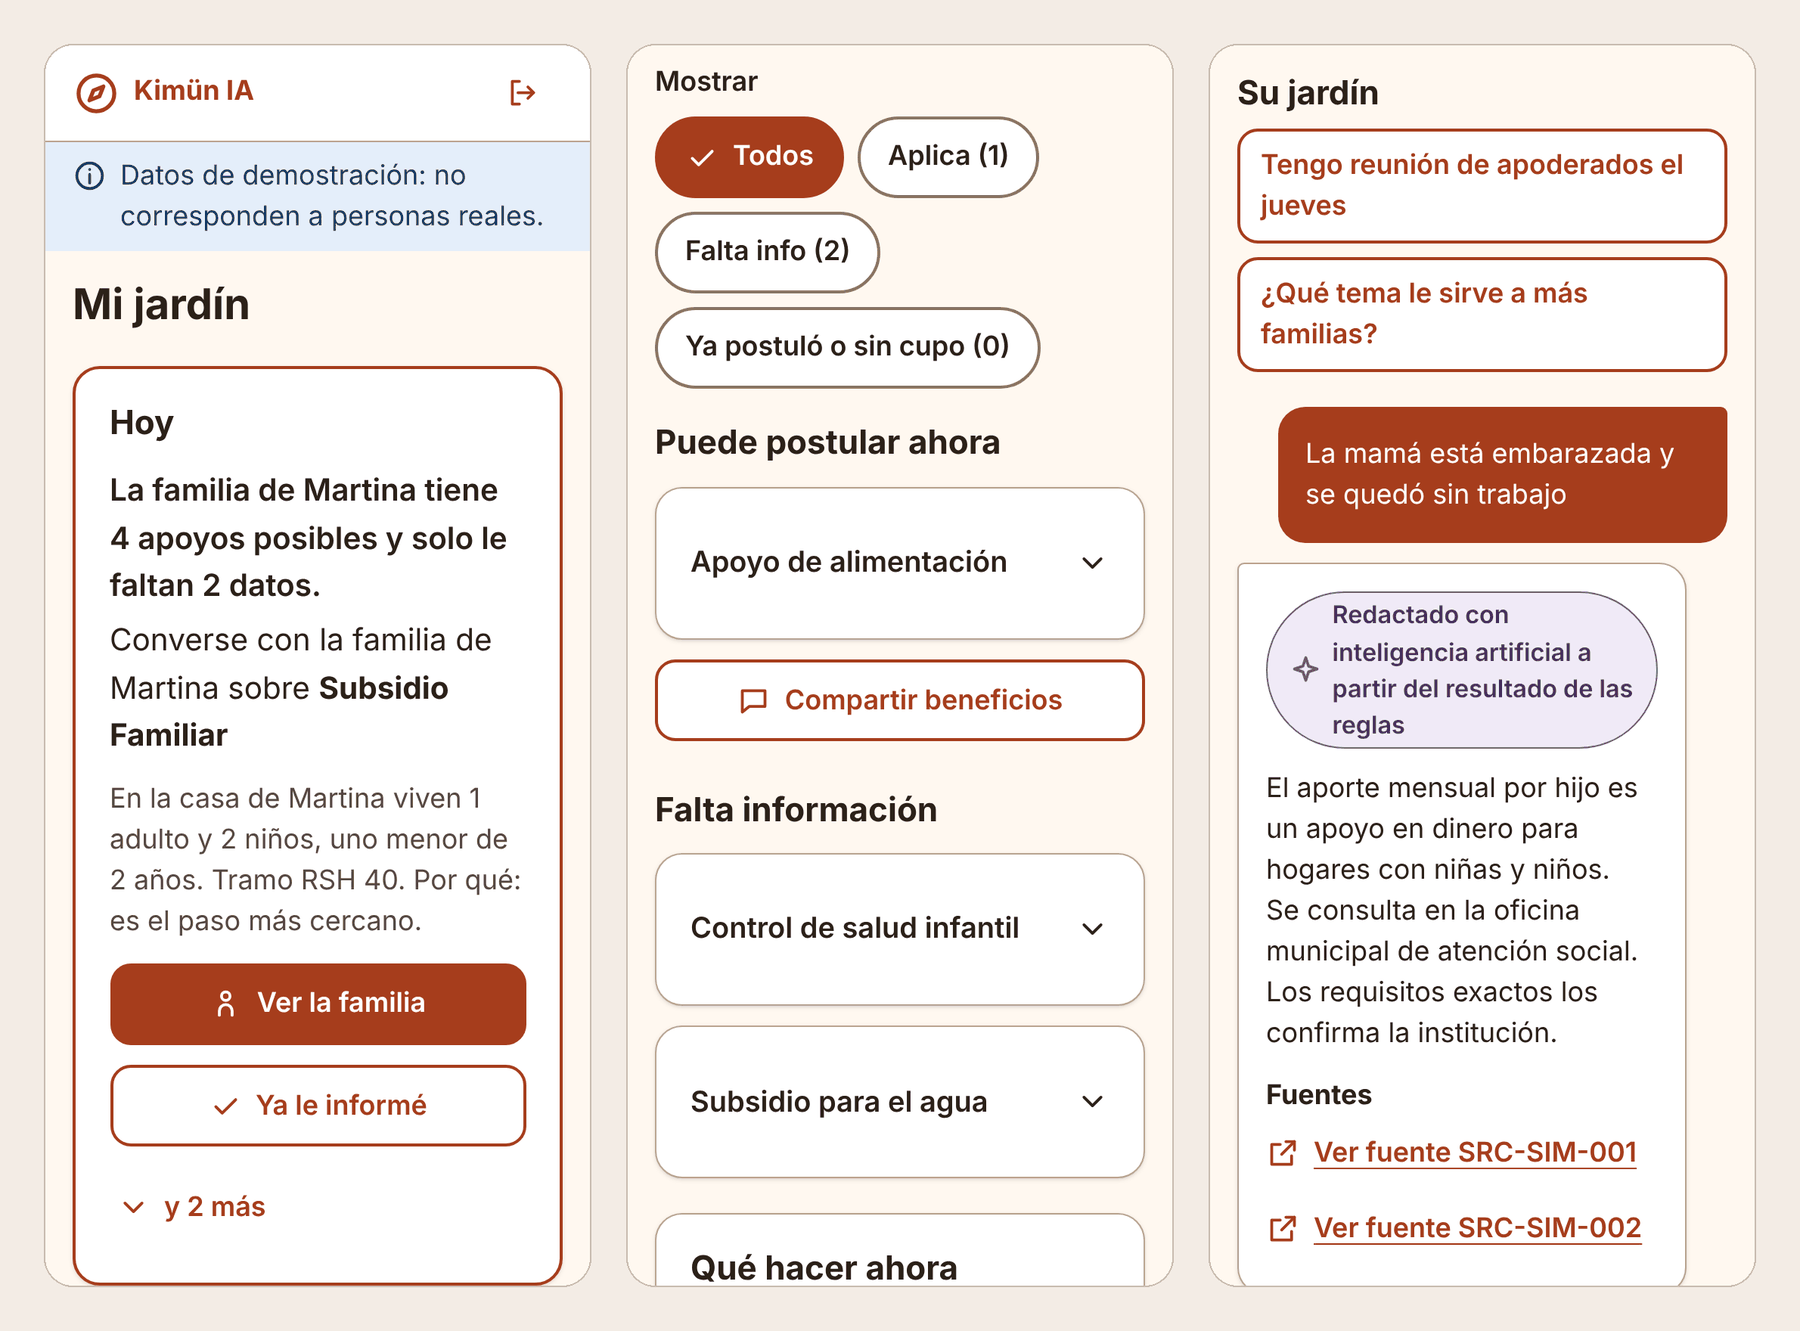
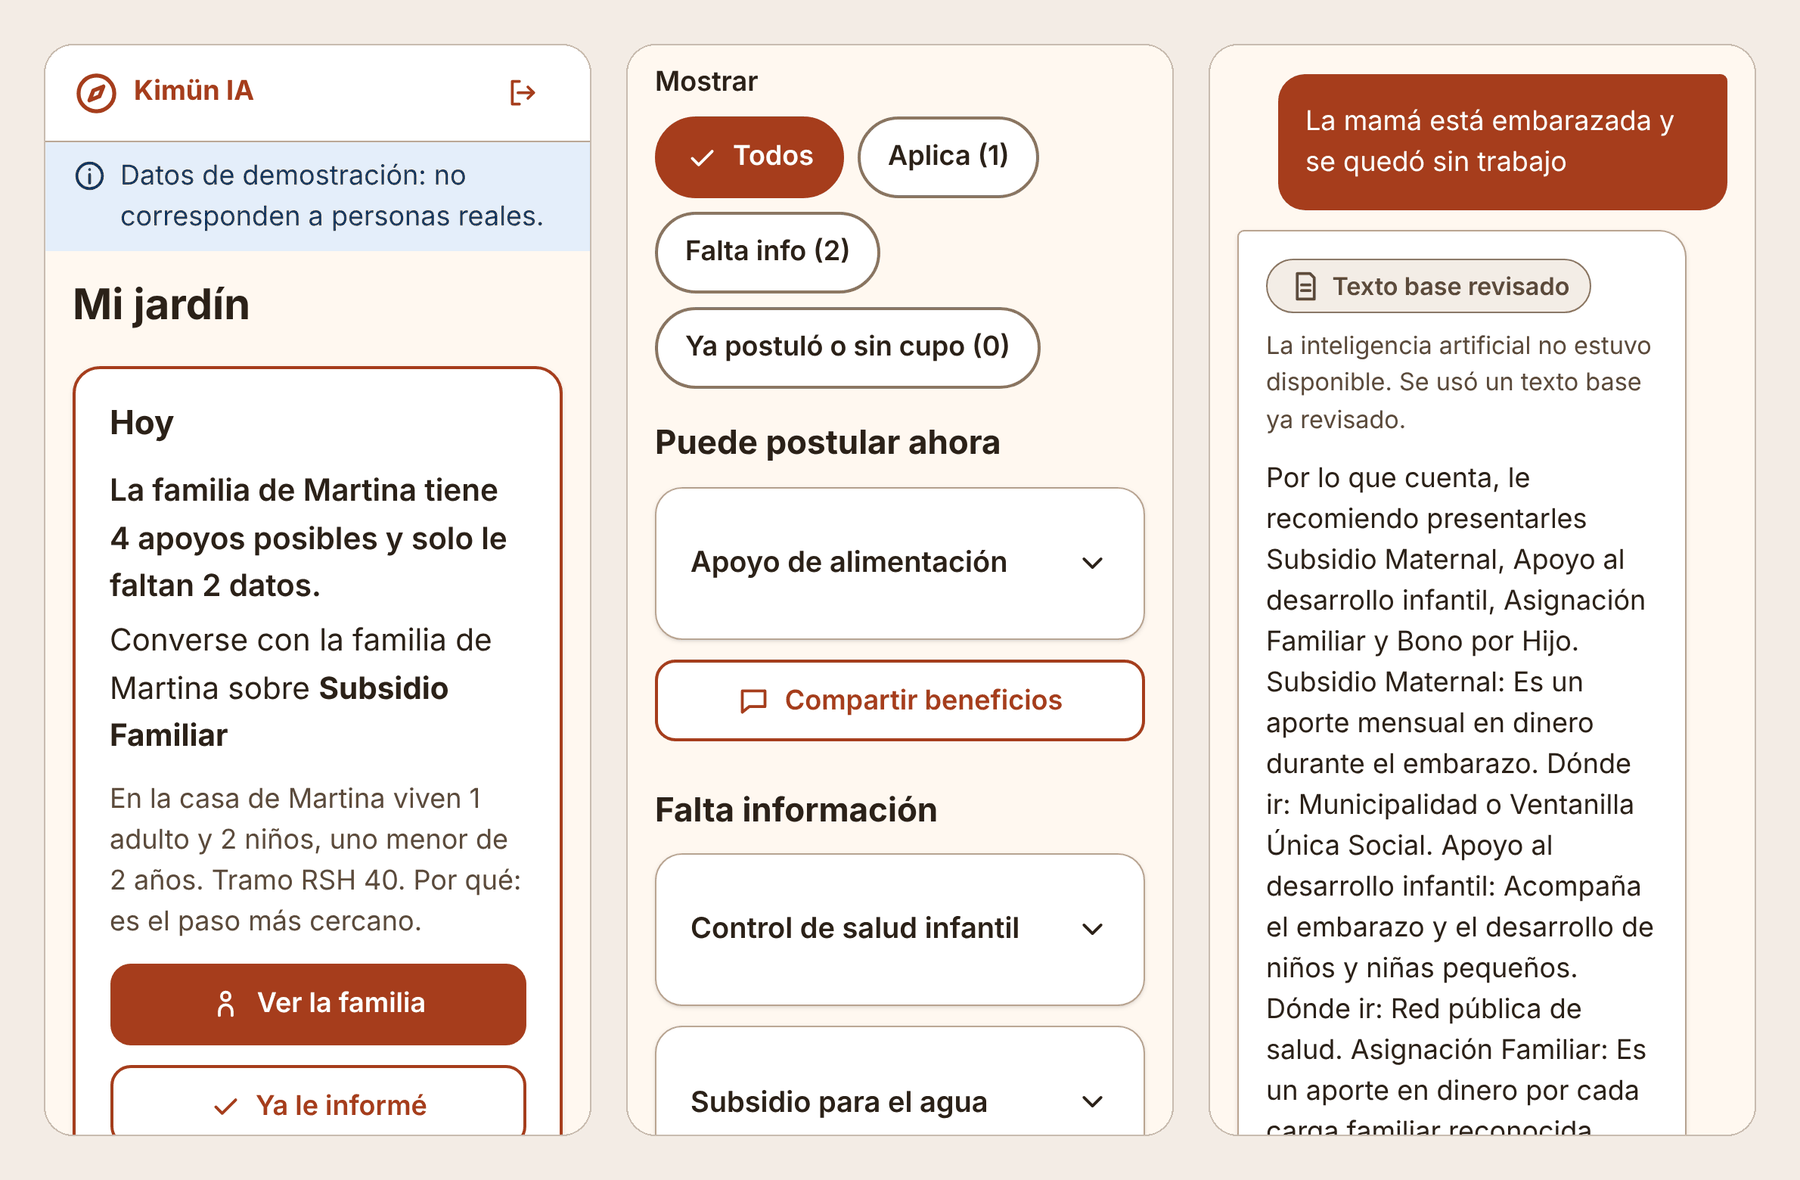
docs: fix image on readme

diff --git a/README.es.md b/README.es.md
@@ -13,7 +13,7 @@ Una PWA pensada para el celular que ayuda a las educadoras de **Fundación Integ
 
 Construida por un equipo de cuatro personas en una **hackathon de AWS de tres días** (*AWS Breaking Barriers*, octubre de 2026) y desplegada de punta a punta en AWS.
 
-![Kimün IA en el celular: la familia sugerida del día, los beneficios de una familia agrupados por estado y el asistente respondiendo una situación](docs/images/mobile-flow.png)
+![Kimün IA en el celular: la familia sugerida del día, los beneficios de una familia agrupados por estado y el asistente recomendando beneficios para una situación](docs/images/mobile-flow.png)
 
 ---
 

diff --git a/README.md b/README.md
@@ -13,7 +13,7 @@ A mobile-first web app that helps early-childhood educators at **Fundación Inte
 
 Built by a team of four in a **3-day AWS hackathon** (*AWS Breaking Barriers*, October 2026) and deployed end to end on AWS.
 
-![Kimün IA on mobile: today's suggested family, a family's benefits grouped by status, and the assistant answering a situation](docs/images/mobile-flow.png)
+![Kimün IA on mobile: today's suggested family, a family's benefits grouped by status, and the assistant recommending benefits for a situation](docs/images/mobile-flow.png)
 
 ---
 
